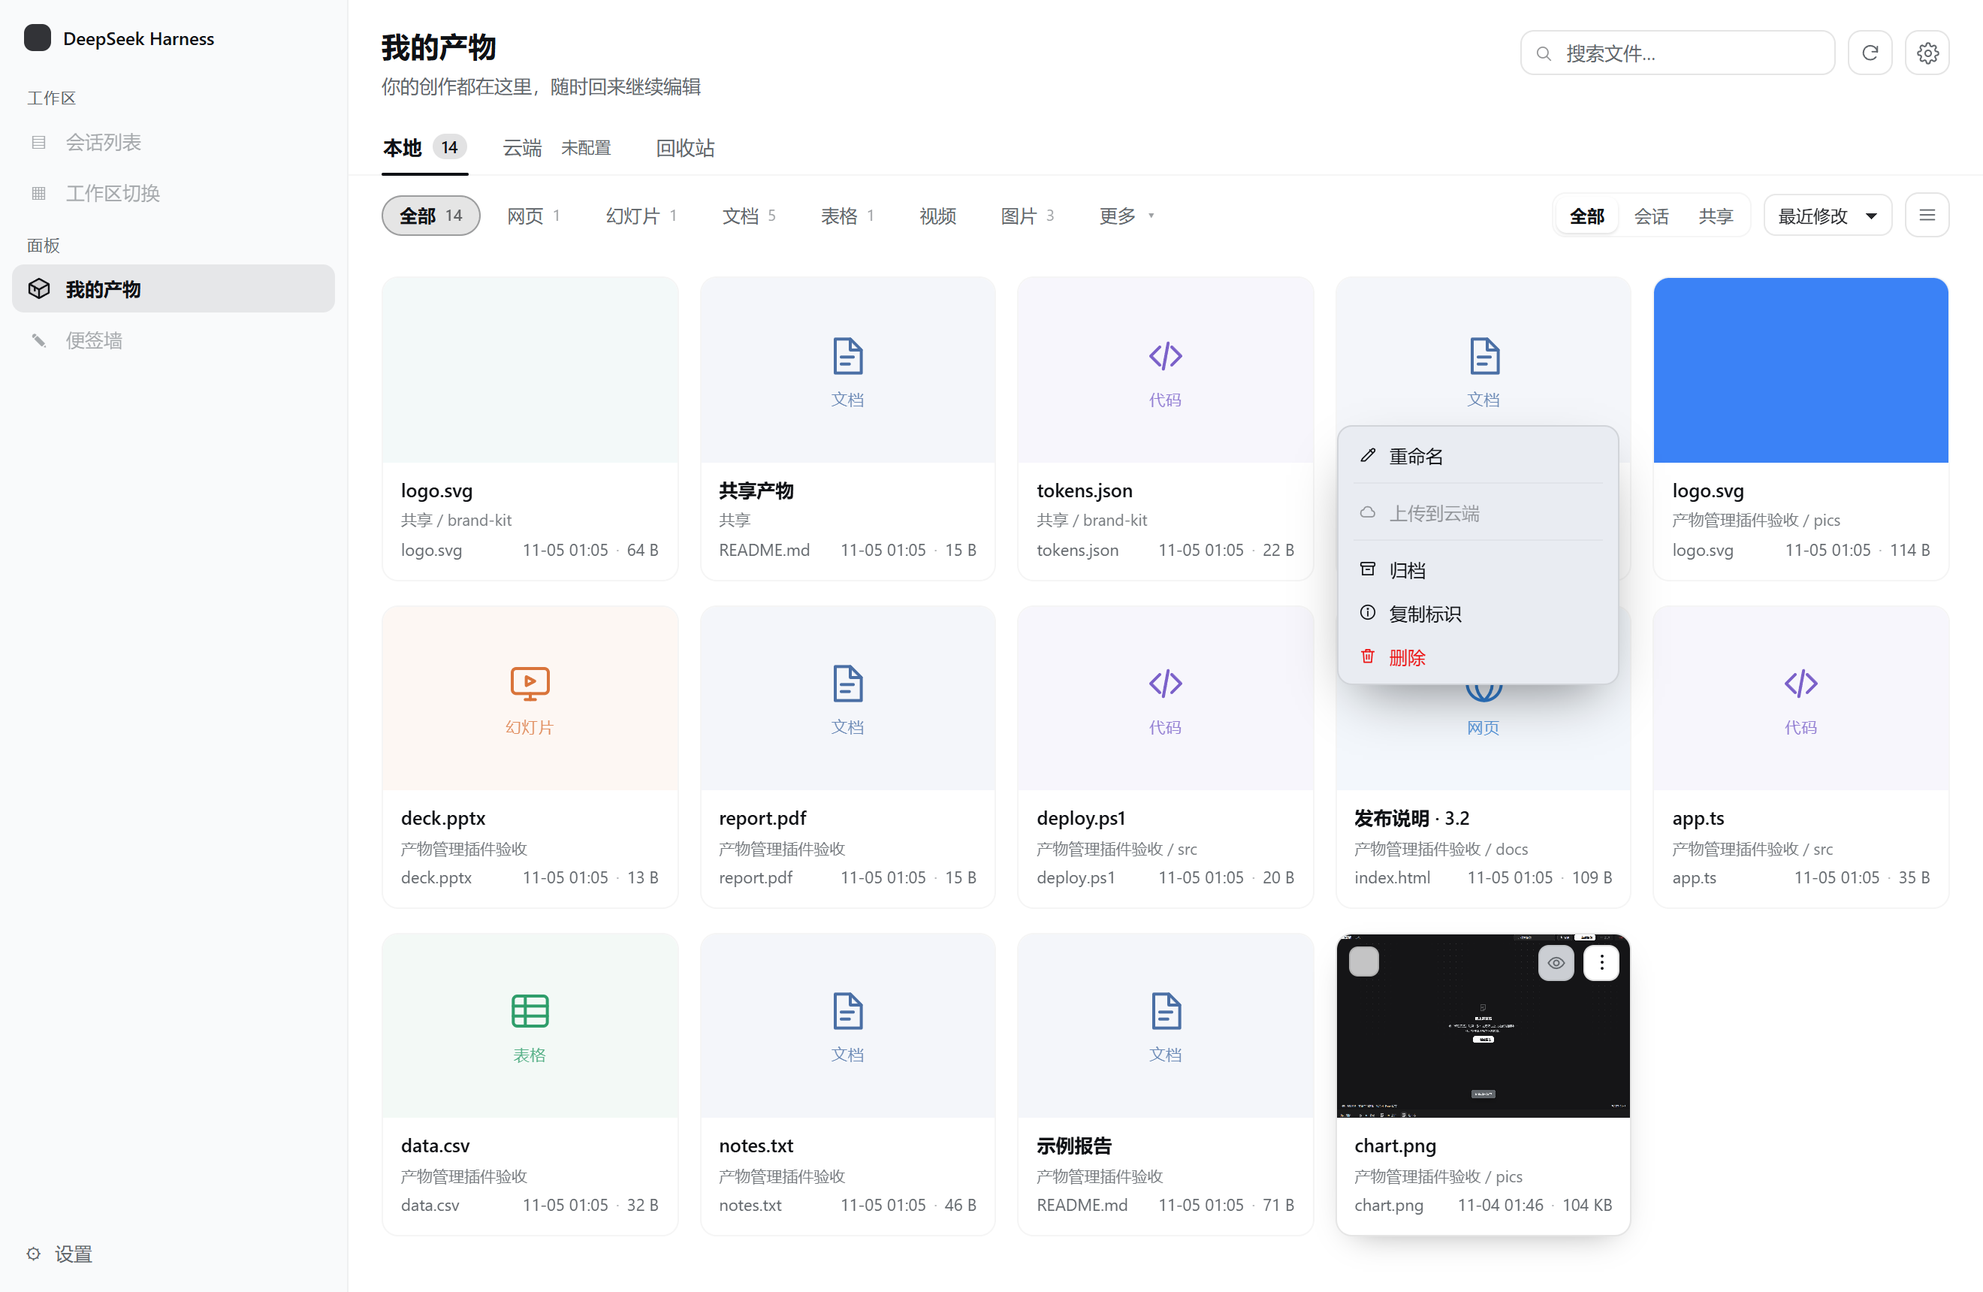
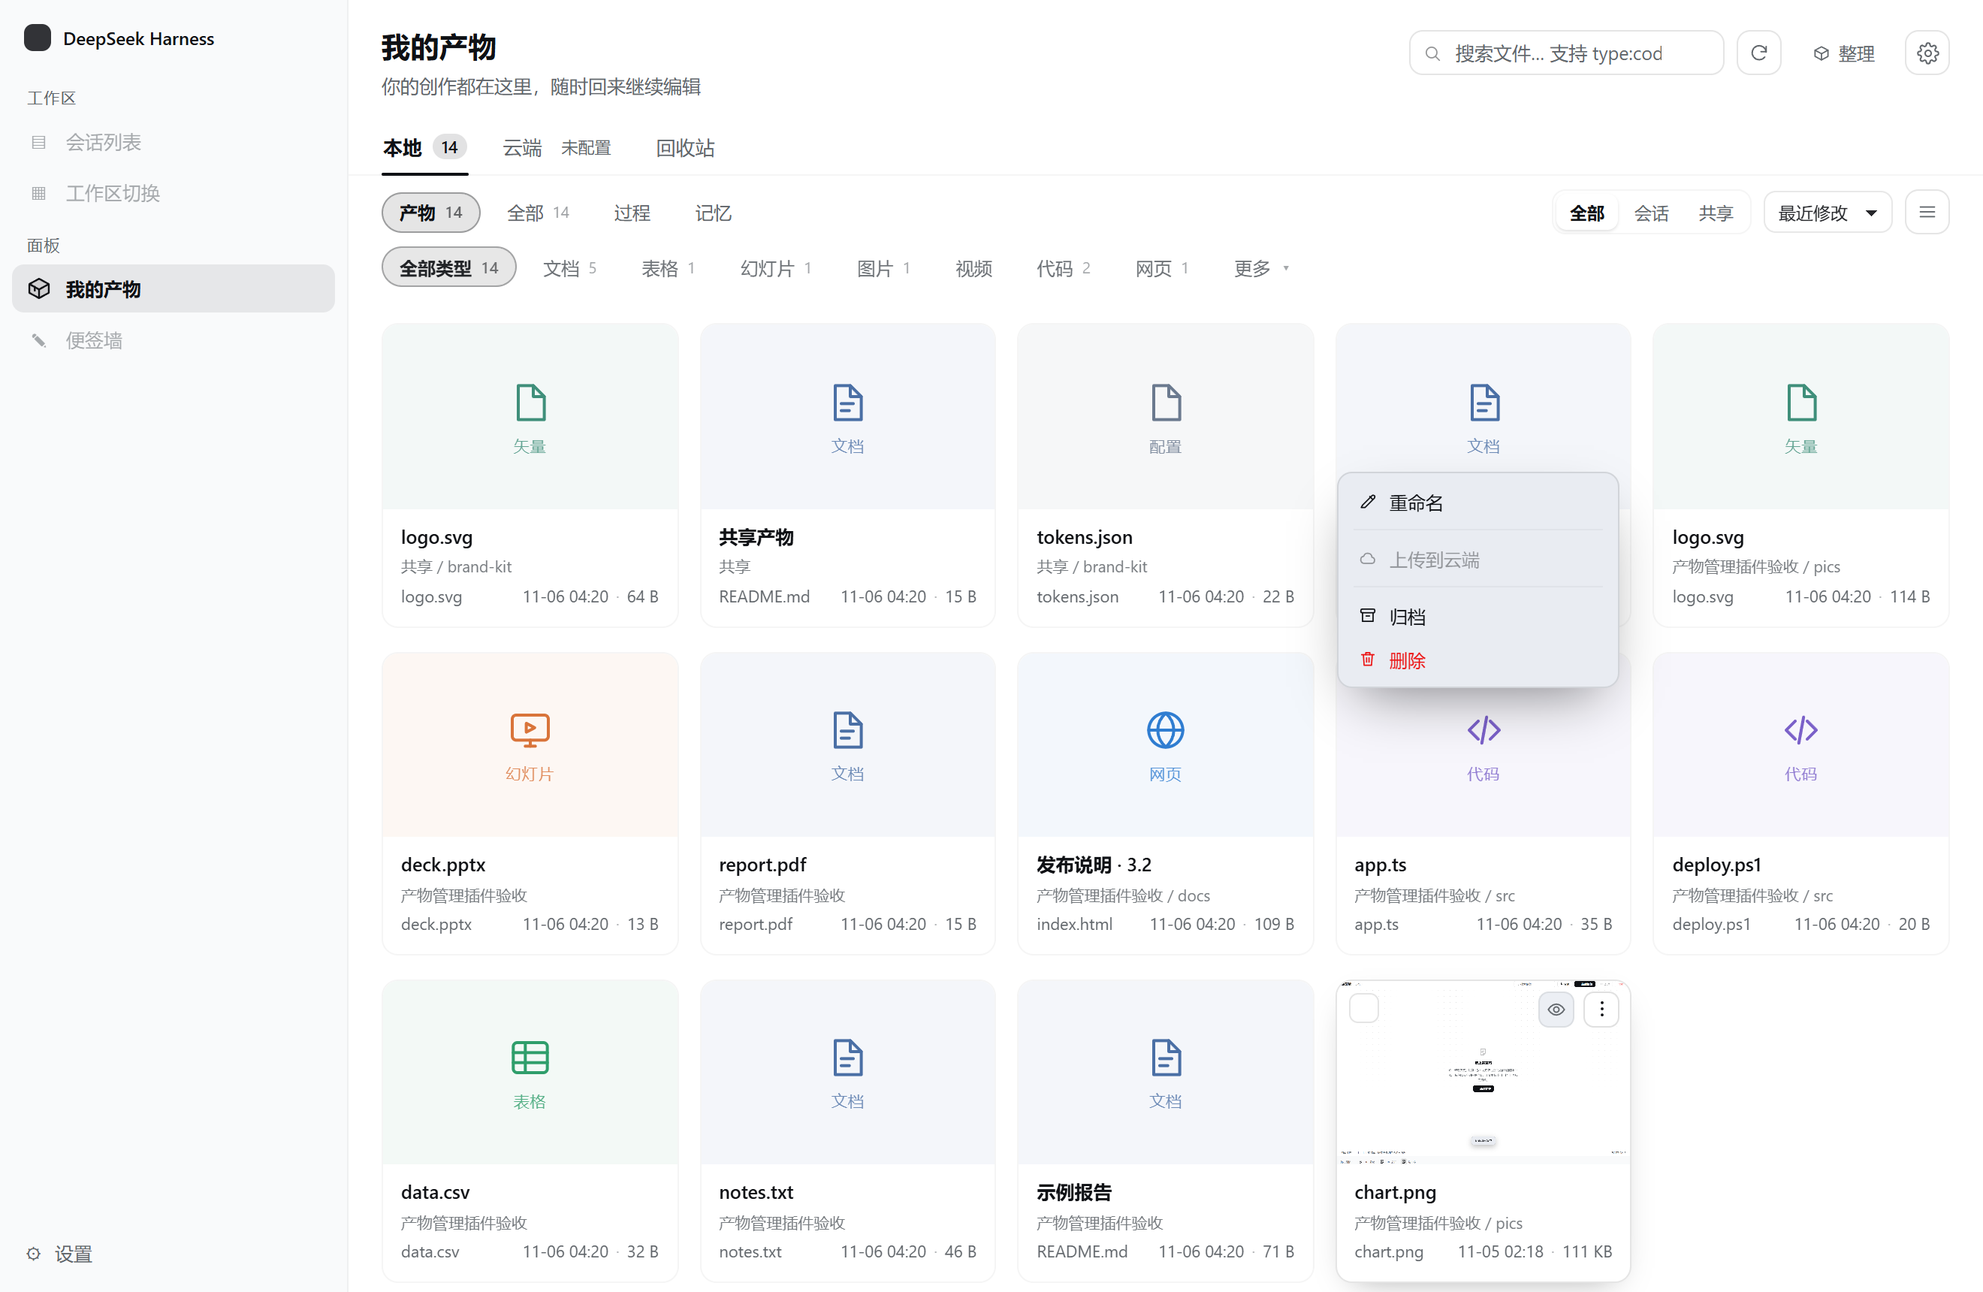
feat: 卡片菜单收缩到 4 类动作，Esc 监听改捕获阶段，索引器与文档跟进

diff --git a/client.js b/client.js
@@ -139,6 +139,10 @@
 .ap-menuItem[disabled]{opacity:.4;cursor:not-allowed}
 .ap-menuSep{height:1px;margin:4px 6px;background:var(--dsw-alias-border-l1)}
 .ap-list{display:flex;flex-direction:column;padding-top:10px}
+/* 时间分组（年/月/日）：标题吸顶，滚动时知道自己在哪一段 */.ap-group{margin-bottom:4px}
+.ap-groupHead{position:sticky;top:0;z-index:3;display:flex;align-items:baseline;gap:8px;padding:8px 2px 6px;margin-bottom:2px;background:color-mix(in srgb,var(--dsw-alias-bg-base) 88%,transparent);backdrop-filter:blur(8px)}
+.ap-groupTitle{font-size:13px;font-weight:700;color:var(--dsw-alias-label-primary)}
+.ap-groupCount{font-size:11px;color:var(--dsw-alias-label-secondary)}
 .ap-row{display:flex;align-items:center;gap:11px;padding:8px 10px;border-radius:9px;border:1px solid transparent;cursor:default}
 .ap-row:hover{background:var(--dsw-alias-bg-layer-1);border-color:var(--dsw-alias-border-l1)}
 .ap-row[data-selected="true"]{background:color-mix(in srgb,var(--dsw-alias-brand-primary) 8%,transparent);border-color:color-mix(in srgb,var(--dsw-alias-brand-primary) 30%,transparent)}
@@ -327,8 +331,37 @@
     return date.getFullYear() === now.getFullYear() ? base : date.getFullYear() + '-' + base
   }
 
-  function relTime(ms) {
-    const delta = Date.now() - Number(ms)
+  /**
+   * 时间分组（像手机相册）：年 / 月 / 日。
+   * key 用 `YYYY`、`YYYY-MM`、`YYYY-MM-DD`，既能排序也能直接比较。
+   */
+  function groupKeyOf(ms, granularity) {
+    const value = Number(ms)
+    if (!Number.isFinite(value) || value <= 0) return 'unknown'
+    const date = new Date(value)
+    const year = date.getFullYear()
+    if (granularity === 'year') return String(year)
+    const month = pad2(date.getMonth() + 1)
+    if (granularity === 'month') return `${year}-${month}`
+    return `${year}-${month}-${pad2(date.getDate())}`
+  }
+
+  /** 分组标题：今天 / 昨天 / 11月5日 / 2026年11月 / 2026年。 */
+  function groupLabelOf(key, granularity) {
+    if (key === 'unknown') return '时间未知'
+    const [year, month, day] = key.split('-')
+    if (granularity === 'year') return `${year}年`
+    if (granularity === 'month') return `${year}年${Number(month)}月`
+    const now = new Date()
+    const todayKey = groupKeyOf(now.getTime(), 'day')
+    const yesterdayKey = groupKeyOf(now.getTime() - 86_400_000, 'day')
+    if (key === todayKey) return '今天'
+    if (key === yesterdayKey) return '昨天'
+    if (Number(year) === now.getFullYear()) return `${Number(month)}月${Number(day)}日`
+    return `${year}年${Number(month)}月${Number(day)}日`
+  }
+
+  function relTime(ms) {    const delta = Date.now() - Number(ms)
     if (!Number.isFinite(delta)) return '—'
     if (delta < 60_000) return '刚刚'
     if (delta < 3_600_000) return Math.floor(delta / 60_000) + ' 分钟前'
@@ -460,7 +493,8 @@
     moreOpen: false,
     scope: 'all',              // all | session | shared
     root: 'all',               // all | primary | @label
-    sort: 'mtime',             // mtime | name | size
+    sort: 'mtime',             // mtime | created | name | size
+    group: 'month',            // none | year | month | day —— 只对时间排序生效
     order: 'desc',
     view: 'grid',              // grid | list
     q: '',
@@ -555,6 +589,8 @@
   const MENU_WIDTH = 188
   /** 菜单大概有多高：9 项 × 29 + 内边距 + 两条分隔线。 */
   const MENU_ESTIMATE = 340
+  /** 再挤也要留这么多高度：否则最后一项会被裁掉半截（宁可与按钮重叠一点）。 */
+  const MENU_MIN_HEIGHT = 240
 
   /**
    * 菜单不放在卡片里，而是用 fixed 坐标贴着 ⋯ 按钮画：
@@ -570,7 +606,7 @@
     const spaceBelow = window.innerHeight - rect.bottom - margin
     const spaceAbove = rect.top - margin
     const openUp = spaceBelow < MENU_ESTIMATE && spaceAbove > spaceBelow
-    const maxHeight = Math.max(160, Math.min(MENU_ESTIMATE, openUp ? spaceAbove - 6 : spaceBelow - 6))
+    const maxHeight = Math.max(MENU_MIN_HEIGHT, Math.min(MENU_ESTIMATE, openUp ? spaceAbove - 6 : spaceBelow - 6))
     const top = openUp
       ? Math.max(margin, rect.top - Math.min(maxHeight, spaceAbove) - 6)
       : rect.bottom + 6
@@ -1092,17 +1128,21 @@
         onClick: () => { onClose(); setState({ dialog: { type: 'rename', item, value: item.name } }) },
       }, h(Icon, { size: 13 }, I.rename()), '重命名'),
       h('div', { className: 'ap-menuSep' }),
-      synced
+      // 云端动作按状态只留一个：冲突时「拉回云端那份」，没传过才「上传」，已同步就没什么可做的
+      item.cloud?.state === 'conflict'
         ? h('button', {
             type: 'button', role: 'menuitem', className: 'ap-menuItem',
+            title: '本地改过了，把云端那份拉回来（会另存一份，不覆盖本地）',
             onClick: () => { onClose(); downloadCloud([item]) },
-          }, h(Icon, { size: 13 }, I.remote()), s.cloud.config?.downloadDir ? '从云端下载' : '从云端下载…')
-        : h('button', {
-            type: 'button', role: 'menuitem', className: 'ap-menuItem',
-            disabled: !cloudEnabled,
-            title: cloudEnabled ? '' : '云端未配置',
-            onClick: () => { onClose(); uploadCloud([item]) },
-          }, h(Icon, { size: 13 }, I.cloud()), '上传到云端'),
+          }, h(Icon, { size: 13 }, I.remote()), '从云端下载')
+        : synced
+          ? null
+          : h('button', {
+              type: 'button', role: 'menuitem', className: 'ap-menuItem',
+              disabled: !cloudEnabled,
+              title: cloudEnabled ? '' : '云端未配置',
+              onClick: () => { onClose(); uploadCloud([item]) },
+            }, h(Icon, { size: 13 }, I.cloud()), '上传到云端'),
       synced && s.cloud.config?.allowRemoteDelete === true
         ? h('button', {
             type: 'button', role: 'menuitem', className: 'ap-menuItem', 'data-danger': 'true',
@@ -1119,16 +1159,6 @@
         type: 'button', role: 'menuitem', className: 'ap-menuItem',
         onClick: () => { onClose(); cleanSession(item) },
       }, h(Icon, { size: 13 }, I.trash()), '清理原目录') : null,
-      h('button', {
-        type: 'button', role: 'menuitem', className: 'ap-menuItem',
-        onClick: () => { onClose(); copyText(item.id, '已复制标识') },
-      }, h(Icon, { size: 13 }, I.info()), '复制标识'),
-      item.cloud?.key
-        ? h('button', {
-            type: 'button', role: 'menuitem', className: 'ap-menuItem',
-            onClick: () => { onClose(); copyText(item.cloud.key, '已复制云端路径') },
-          }, h(Icon, { size: 13 }, I.cloud()), '复制云端路径')
-        : null,
       h('button', {
         type: 'button', role: 'menuitem', className: 'ap-menuItem', 'data-danger': 'true',
         onClick: () => { onClose(); requestDelete([item]) },
@@ -1305,6 +1335,14 @@
         h('div', { className: 'ap-modalFoot' },
           h('button', { type: 'button', className: 'ap-btn', onClick: () => downloadItem(item) },
             h(Icon, { size: 13 }, I.download()), '下载'),
+          // 云端条目：菜单里不再放「从云端下载」，改到这里 —— 预览时最清楚自己要的是哪一份
+          preview.data?.cloudKey
+            ? h('button', {
+                type: 'button', className: 'ap-btn',
+                title: '把云端那份重新拉回本地（可选目录）',
+                onClick: () => { close(); downloadCloud([item]) },
+              }, h(Icon, { size: 13 }, I.cloud()), '从云端下载')
+            : null,
           h('button', {
             type: 'button', className: 'ap-btn',
             onClick: () => revealItem(item),
@@ -1799,9 +1837,26 @@
         },
           h('option', { value: 'mtime:desc' }, '最近修改'),
           h('option', { value: 'mtime:asc' }, '最早修改'),
+          h('optgroup', { label: '创建时间' },
+            h('option', { value: 'created:desc' }, '最近创建'),
+            h('option', { value: 'created:asc' }, '最早创建')),
           h('option', { value: 'name:asc' }, '名称 A→Z'),
           h('option', { value: 'size:desc' }, '从大到小'),
           h('option', { value: 'size:asc' }, '从小到大')),
+        // 像相册一样按 年/月/日 分组；按名称或大小排序时分组没有意义，直接禁用
+        s.sort === 'mtime' || s.sort === 'created'
+          ? h('select', {
+              className: 'ap-select',
+              'aria-label': '分组',
+              title: '按时间分组（只对时间排序生效）',
+              value: s.group,
+              onChange: (event) => setState({ group: event.target.value }),
+            },
+              h('option', { value: 'none' }, '不分组'),
+              h('option', { value: 'year' }, '按年'),
+              h('option', { value: 'month' }, '按月'),
+              h('option', { value: 'day' }, '按日'))
+          : null,
         h('button', {
           type: 'button', className: 'ap-iconbtn',
           'aria-label': s.view === 'grid' ? '切换为列表' : '切换为网格',
@@ -1921,9 +1976,32 @@
       })
     }
 
-    const view = s.view === 'grid'
-      ? h('div', { className: 'ap-grid' }, s.items.map((item) => h(Card, { key: item.id, item })))
-      : h('div', { className: 'ap-list' }, s.items.map((item) => h(Row, { key: item.id, item })))
+    // 时间分组：按「修改」或「创建」把条目切成 年/月/日 段，像手机相册那样
+    const timeSort = s.sort === 'mtime' || s.sort === 'created'
+    const granularity = timeSort ? s.group : 'none'
+    const stampOf = (item) => (s.sort === 'created' ? (item.born ?? item.mtime) : item.mtime)
+    const renderList = (list) => (s.view === 'grid'
+      ? h('div', { className: 'ap-grid' }, list.map((item) => h(Card, { key: item.id, item })))
+      : h('div', { className: 'ap-list' }, list.map((item) => h(Row, { key: item.id, item }))))
+
+    let view
+    if (granularity === 'none') {
+      view = renderList(s.items)
+    } else {
+      const sections = new Map()
+      for (const item of s.items) {
+        const key = groupKeyOf(stampOf(item), granularity)
+        if (!sections.has(key)) sections.set(key, [])
+        sections.get(key).push(item)
+      }
+      view = h(React.Fragment, null, [...sections.entries()].map(([key, list]) => h('section', {
+        key, className: 'ap-group', 'data-group': key,
+      },
+        h('div', { className: 'ap-groupHead' },
+          h('span', { className: 'ap-groupTitle' }, groupLabelOf(key, granularity)),
+          h('span', { className: 'ap-groupCount' }, list.length + ' 个')),
+        renderList(list))))
+    }
 
     return h(React.Fragment, null,
       view,
@@ -2286,10 +2364,11 @@
       }
       const onKey = (event) => { if (event.key === 'Escape') setState({ menuId: null }) }
       window.addEventListener('mousedown', onDown)
-      window.addEventListener('keydown', onKey)
+      // 用捕获阶段：宿主（DSH shell）会在冒泡阶段吞掉 Escape，冒泡监听收不到
+      window.addEventListener('keydown', onKey, true)
       return () => {
         window.removeEventListener('mousedown', onDown)
-        window.removeEventListener('keydown', onKey)
+        window.removeEventListener('keydown', onKey, true)
       }
     }, [s.menuId])
 

diff --git a/lib/indexer.js b/lib/indexer.js
@@ -1,4 +1,4 @@
-/**
+/**
  * 产物管理 · 索引 v3。
  *
  * 只做三件事：扫（多工作区 + 角色过滤 + 跳过目录 + 预算）、增量（mtime+size 不变就复用旧条目）、
@@ -30,7 +30,7 @@ import {
   titleOf,
 } from './util.js'
 
-export const INDEX_VERSION = 3
+export const INDEX_VERSION = 4
 /** 索引最多 15 秒才重扫一次 —— /items 是热路径，不能每次都走全盘。 */
 const STALE_MS = 15_000
 /** 每次 /items 前最多扫这么多文件（极端工作区下只增量补一点，避免卡界面）。 */
@@ -204,6 +204,8 @@ export function createIndexer({ root, settings, roles, dataDir }) {
       roleSource: 'auto',
       size: stat.size,
       mtime: stat.mtimeMs,
+      /** 创建时间（Windows/NTFS 有；其它文件系统拿不到就退回 mtime）。 */
+      born: Number.isFinite(stat.birthtimeMs) && stat.birthtimeMs > 0 ? stat.birthtimeMs : stat.mtimeMs,
       mtimeIso: new Date(stat.mtimeMs).toISOString(),
       sha256: null,
       thumb: kind === 'image' ? `/api/dsh-artifacts/raw?id=${encodeURIComponent(id)}` : null,
@@ -294,7 +296,7 @@ export function createIndexer({ root, settings, roles, dataDir }) {
 
         const prev = previous.get(id)
         let item
-        if (prev !== undefined && prev.mtime === stat.mtimeMs && prev.size === stat.size && prev.kind === kind && prev.role === role) {
+        if (prev !== undefined && prev.mtime === stat.mtimeMs && prev.size === stat.size && prev.kind === kind && prev.role === role && prev.born !== undefined) {
           item = { ...prev, roleSource: manualRole === undefined ? 'auto' : 'manual', abs: join(base, rel) }
         } else {
           item = makeItem({ id, scope, session, rel: displayPath, name, kind, ext, stat, abs: join(base, rel), titles: titleMap })
@@ -450,12 +452,13 @@ export function createIndexer({ root, settings, roles, dataDir }) {
     }
     if (typeof input.keep === 'function') list = list.filter(input.keep)
 
-    const sort = input.sort === 'name' || input.sort === 'size' ? input.sort : 'mtime'
+    const sort = ['name', 'size', 'created'].includes(input.sort) ? input.sort : 'mtime'
     const direction = input.order === 'asc' ? 1 : -1
     list.sort((a, b) => {
       let diff
       if (sort === 'name') diff = NAME_COLLATOR.compare(a.name, b.name)
       else if (sort === 'size') diff = (a.size || 0) - (b.size || 0)
+      else if (sort === 'created') diff = (a.born ?? a.mtime ?? 0) - (b.born ?? b.mtime ?? 0)
       else diff = (a.mtime || 0) - (b.mtime || 0)
       if (diff !== 0) return direction * diff
       // 次级排序：同一秒写入的文件（截图批量产出）不能随机跳 —— 按自然序再按 id 定序

diff --git a/README.md b/README.md
@@ -202,6 +202,7 @@ dsh-plugin-artifacts/
 | **白名单索引**，默认只收已知类型 | 实测：某个会话目录 348 个文件里 242 个是无扩展名的运行时垃圾。全量索引会让「我的产物」变成文件浏览器。 |
 | 缩略图只做图片，且不预生成 | 没有 `sharp` 就不该假装有。图片直接用 `/raw` 交给浏览器缩放，0 磁盘占用、0 转换延迟；其它类型老老实实显示类型图标。 |
 | 删除必须带 60 秒令牌 | 二次确认 + 令牌双保险，配合回收站，误删可以还原。 |
+| 卡片菜单只留 4 类动作 | 重命名 / 云端（按状态二选一）/ 归档 / 删除。**「复制标识」和「复制云端路径」已从菜单移除**：前者是给 API 和脚本用的内部 id，对用户没意义；后者预览弹层里就有（还能点一下复制）。菜单项越少越不会出现"被裁掉半截"。 |
 | 归档**不隐藏**、**不自动清原目录** | 归档只是「打了一个 zip + 打一个时间点标记」；清不清原目录由用户在卡片菜单里决定，清了也是进回收站。 |
 | `archived` 按时间点判断 | `item.mtime <= record.at` 才算已归档 —— 目录里又有新写入时角标自动消失，不需要手工撤销。 |
 | 云端 key 首次上传时固化 | `dsh/v2/<会话目录名>/<相对路径>`；共享区 `dsh/v2/_shared/<name>/<rel>`。首次上传写进 `.cloud.json`，之后改目录名也不重算。旧格式 `v1/sessions/<8hex>-<目录>/<rel>` 多两段、还把目录名与 id 各写一遍，已废弃（老记录仍按记录里的 key 读写）。 |
@@ -228,7 +229,7 @@ dsh-plugin-artifacts/
 | 角标（已归档 / 已同步 / 冲突）在缩略图**左下角** | 左上角留给选择框，右上角留给工具按钮，三者不再互相压。 |
 | 「仅本地」不出角标 | 云端一旦启用，每张卡都挂一个灰角标只是噪音；需要时进卡片菜单上传。 |
 | `⋯` 菜单用 `position:fixed` + 按按钮 rect 算坐标 | 卡片在滚动容器里，绝对定位的菜单会被容器裁掉（越靠底部越明显）；fixed 之后不受裁剪，靠底时自动向上弹并限高。 |
-| 菜单支持 Esc / 点外部关闭 | 键盘可达性，也避免误点。 |
+| 菜单支持 Esc / 点外部关闭 | 键盘可达性，也避免误点。**监听必须用捕获阶段**：DSH shell 会在冒泡阶段吞掉 `Escape`，用冒泡监听会表现为"按 Esc 没反应"。 |
 | 云端支持默认下载目录 | 配置里可选一个默认目录（存 `.cloud.json` 的 `downloadDir`）：设了就直接落盘不再弹选择器，没设就每次问。 |
 | 批量操作栏出现时 toast 抬高 | 两者都在底部居中，之前会叠在一起。 |
 | 目录选择器优先用 `globalThis.__DSH_DIRECTORY_PICKER__` | 内置 UI 也是这么取的（`desktop.pick()`）；直接调 `uiWorkspace.pickDirectory()` 在桌面端可能抛 `directory picker failed: …`。取不到就降级成 info 提示 + 默认位置，配置里的路径输入框也能手填。 |
@@ -292,13 +293,17 @@ pnpm install
 
 ## 8. 验证
 
-重启宿主后可以先跑一条自检，确认 v3 真的加载了：
+重启宿主后可以先跑一条自检，确认 v3 真的加载了（端口每次启动可能不同，取 `dsh web` 打印的那个）：
 
 ```bash
-node sessions/<会话目录>/harness/post-restart-check.mjs            # 默认 http://127.0.0.1:1234
+node sessions/<会话目录>/harness/post-restart-check.mjs http://127.0.0.1:<port>
 ```
 
 它会检查 `version / roots / scan / byRole / roles / autoSync`、以及「默认只返回产物」；退出码 0 表示宿主已在 v3 上。
+
+**真机实测（2026-11-06，工作区 `D:\workspace\dsh`）**：`live-api-sweep` 25 项全过。
+产物 35 · 记忆 18 · 过程 0（默认不开会话扫描）；云端 4 条记录里 1 条可见，其余 3 条是截图（过程），
+云端 tab 会显示「另有 3 个云端记录对应的文件当前不在扫描范围」。
 
 
 自动化都在 `sessions/2026-11-04-plugin-sidebar-entry/harness/`：
